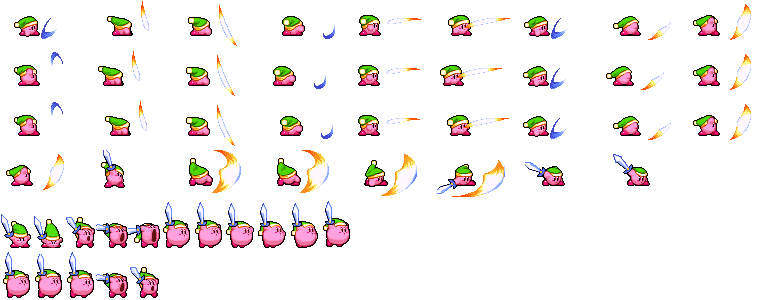
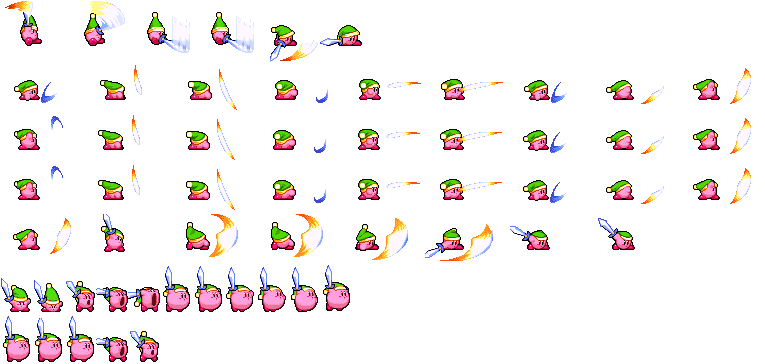
검사 커비 점프찍기 기술 구현

diff --git a/kobby.py b/kobby.py
@@ -448,8 +448,12 @@ class Ability:
             kobby.temp = 3
             kobby.frame = 2
         elif kobby.mode == 2:
-            kobby.temp = 3
-            kobby.frame = 0
+            if kobby.ground == True:
+                kobby.temp = 3
+                kobby.frame = 0
+            else:
+                kobby.temp = 4
+                kobby.frame = 0
 
     @staticmethod
     def exit(kobby, e):
@@ -481,13 +485,21 @@ class Ability:
             if kobby.frame > 4 and kobby.temp == 0:
                 kobby.state_machine.add_event(('TIME_OUT', 0))
         if kobby.mode == 2: # 검사 모드
-            kobby.frame = (kobby.frame + 16 * ACTION_PER_TIME * game_framework.frame_time)
-            if kobby.frame > 9:
-                kobby.temp -= 1
-                kobby.frame = 0
-            if kobby.frame > 7 and kobby.temp == 0:
-                kobby.x += kobby.face_dir * 40
-                kobby.state_machine.add_event(('TIME_OUT', 0))
+            if kobby.temp == 4:
+                if kobby.frame < 6:
+                    kobby.frame = (kobby.frame + 12 * ACTION_PER_TIME * game_framework.frame_time)
+                if kobby.frame >= 5 and kobby.ground == True:
+                    air = Air_shoot(kobby.screen_x, kobby.y, kobby.face_dir, 1)
+                    game_world.add_object(air, 1)
+                    kobby.state_machine.add_event(('TIME_OUT', 0))
+            else:
+                kobby.frame = (kobby.frame + 16 * ACTION_PER_TIME * game_framework.frame_time)
+                if kobby.frame > 9:
+                    kobby.temp -= 1
+                    kobby.frame = 0
+                if kobby.frame > 7 and kobby.temp == 0:
+                    kobby.x += kobby.face_dir * 40
+                    kobby.state_machine.add_event(('TIME_OUT', 0))
 
     @staticmethod
     def draw(kobby):
@@ -500,7 +512,10 @@ class Ability:
             elif kobby.mode == 1:
                 kobby.image2_1.clip_draw(80 * int(kobby.frame), 64 + (kobby.temp * 100), 80, 100, kobby.screen_x + 50, kobby.y + 2, 160, 200)
             elif kobby.mode == 2:
-                kobby.image3_1.clip_draw(85 * int(kobby.frame), 100 + (kobby.temp * 50), 85, 50, kobby.screen_x + 25, kobby.y + 2, 170, 100)
+                if kobby.temp == 4:
+                    kobby.image3_1.clip_draw(64 * int(kobby.frame), 300, 64, 64,kobby.screen_x + 25, kobby.y + 2, 128, 128)
+                else:
+                    kobby.image3_1.clip_draw(85 * int(kobby.frame), 100 + (kobby.temp * 50), 85, 50, kobby.screen_x + 25, kobby.y + 2, 170, 100)
             elif kobby.mode == 3:
                 kobby.image4.clip_draw(25 * int(kobby.frame), 84, 25, 28, kobby.screen_x, kobby.y + 5, 50, 56)
             elif kobby.mode == 4:
@@ -514,7 +529,10 @@ class Ability:
             elif kobby.mode == 1:
                 kobby.image2_1.clip_composite_draw(80 * int(kobby.frame), 64 + (kobby.temp * 100), 80, 100, 0, 'h', kobby.screen_x - 50, kobby.y + 2, 160, 200)
             elif kobby.mode == 2:
-                kobby.image3_1.clip_composite_draw(85 * int(kobby.frame), 100 + (kobby.temp * 50), 85, 50, 0, 'h', kobby.screen_x - 25, kobby.y + 2, 170, 100)
+                if kobby.temp == 4:
+                    kobby.image3_1.clip_composite_draw(64 * int(kobby.frame), 300, 64, 64, 0, 'h', kobby.screen_x - 25, kobby.y + 2, 128, 128)
+                else:
+                    kobby.image3_1.clip_composite_draw(85 * int(kobby.frame), 100 + (kobby.temp * 50), 85, 50, 0, 'h', kobby.screen_x - 25, kobby.y + 2, 170, 100)
             elif kobby.mode == 3:
                 kobby.image4.clip_composite_draw(25 * int(kobby.frame), 84, 25, 28, 0, 'h', kobby.screen_x, kobby.y + 5, 50,56)
             elif kobby.mode == 4:

diff --git a/air_shoot.py b/air_shoot.py
@@ -12,10 +12,13 @@ AIRSHOOT_SPEED_PPS = (AIRSHOOT_SPEED_MPS * PIXEL_PER_METER)
 
 class Air_shoot:
     image = None
+    image2 = None
 
     def __init__(self, x=400, y=300, velocity = 1, air = 0):
         if Air_shoot.image == None:
             Air_shoot.image = load_image('air_shoot.png')
+        if Air_shoot.image2 == None:
+            Air_shoot.image2 = load_image('sword_shoot.png')
         self.x, self.y, self.velocity, self.air = x, y, velocity, air
         self.frame = 0
         self.frame2 = 0
@@ -27,12 +30,21 @@ class Air_shoot:
                 self.image.clip_draw(20 * int(self.frame), 0, 20, 20, self.x, self.y, 50, 50)
             else:
                 self.image.clip_composite_draw(20 * int(self.frame), 0, 20, 20, 0, 'h', self.x, self.y, 50, 50)
+        else:
+            if self.velocity > 0:
+                self.image2.clip_draw(35 * int(self.frame), 0, 35, 30, self.x, self.y, 70, 60)
+            else:
+                self.image2.clip_composite_draw(35 * int(self.frame), 0, 35, 30, 0, 'h', self.x, self.y, 70, 60)
 
     def update(self):
         self.x += self.velocity * AIRSHOOT_SPEED_PPS * game_framework.frame_time
         if self.air == 0:
             self.frame = (self.frame + 4 * (1.0 / 0.5) * game_framework.frame_time)
             if self.frame >= 5:
+                game_world.remove_object(self)
+        else:
+            self.frame = (self.frame + 4 * (1.0 / 1.0) * game_framework.frame_time)
+            if self.frame >= 2:
                 game_world.remove_object(self)
 
     def get_bb(self):
